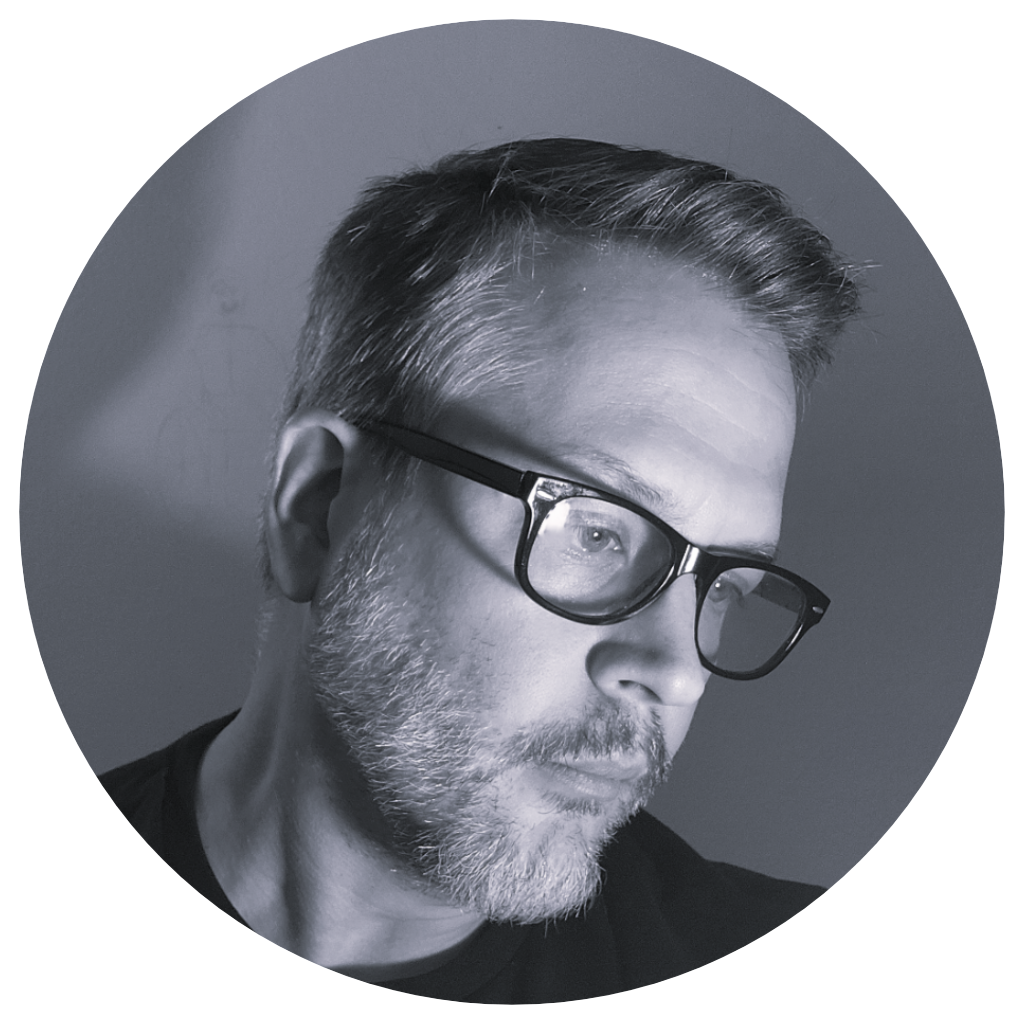
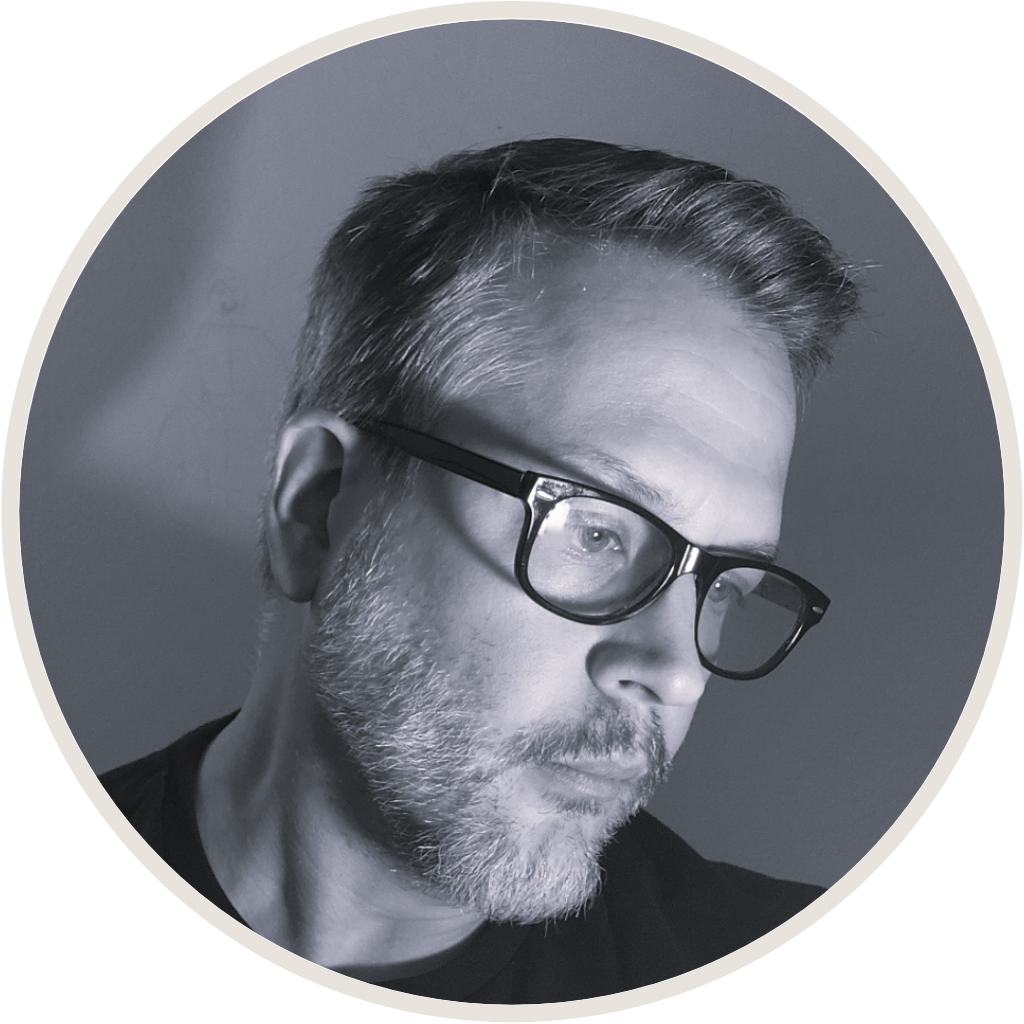
update pic and correct css

Changed region(s): [[0.0, 0.0, 1.0, 1.0]]

diff --git a/styles.css b/styles.css
@@ -204,17 +204,17 @@ blockquote {
 }
 
 .profile-header {
-    display: flex;
-    align-items: flex-start;
-    justify-content: space-between;
-    gap: 3rem;
-    margin-bottom: 1.5rem;
+    position: relative;
+    margin-bottom: 4.5rem;
 }
 
 .author-photo {
+    position: absolute;
+    top: -0.5rem;
+    right: 0;
+
     width: 160px;
     height: 160px;
-    flex-shrink: 0;
     object-fit: cover;
     display: block;
 }
@@ -222,12 +222,15 @@ blockquote {
 /* Prevent the portrait from crowding smaller screens */
 @media (max-width: 650px) {
     .profile-header {
-        flex-direction: column-reverse;
-        gap: 1.5rem;
+        margin-bottom: 2.5rem;
+        padding-top: 150px;
     }
 
     .author-photo {
         width: 130px;
         height: 130px;
+        top: 0;
+        right: auto;
+        left: 0;
     }
 }
